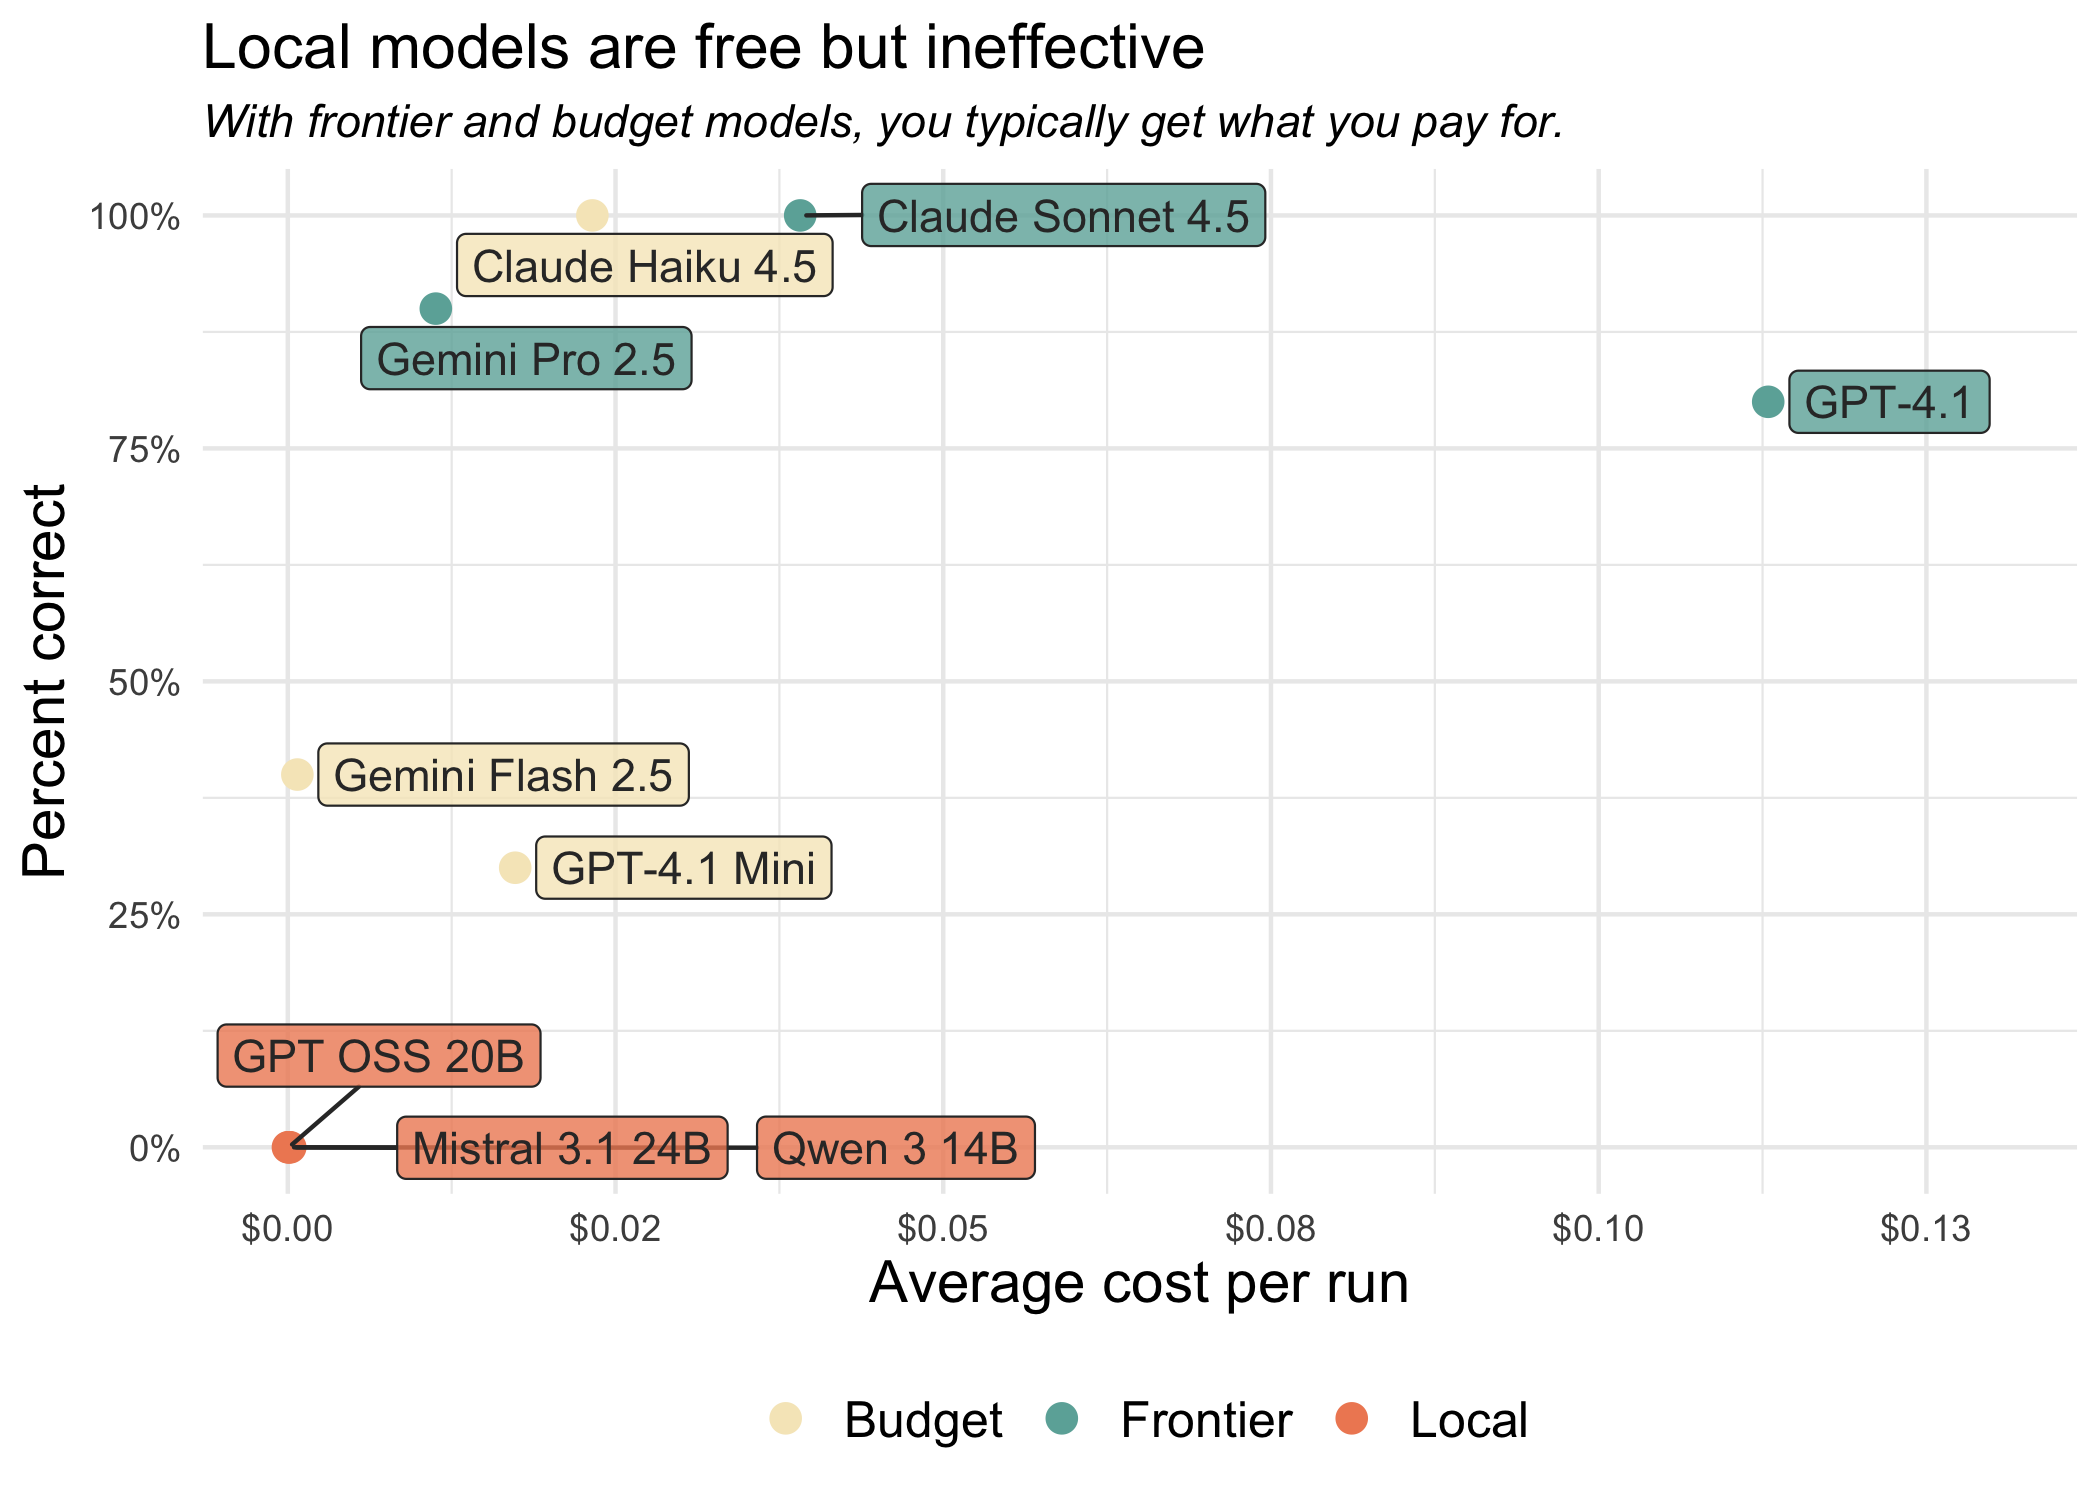
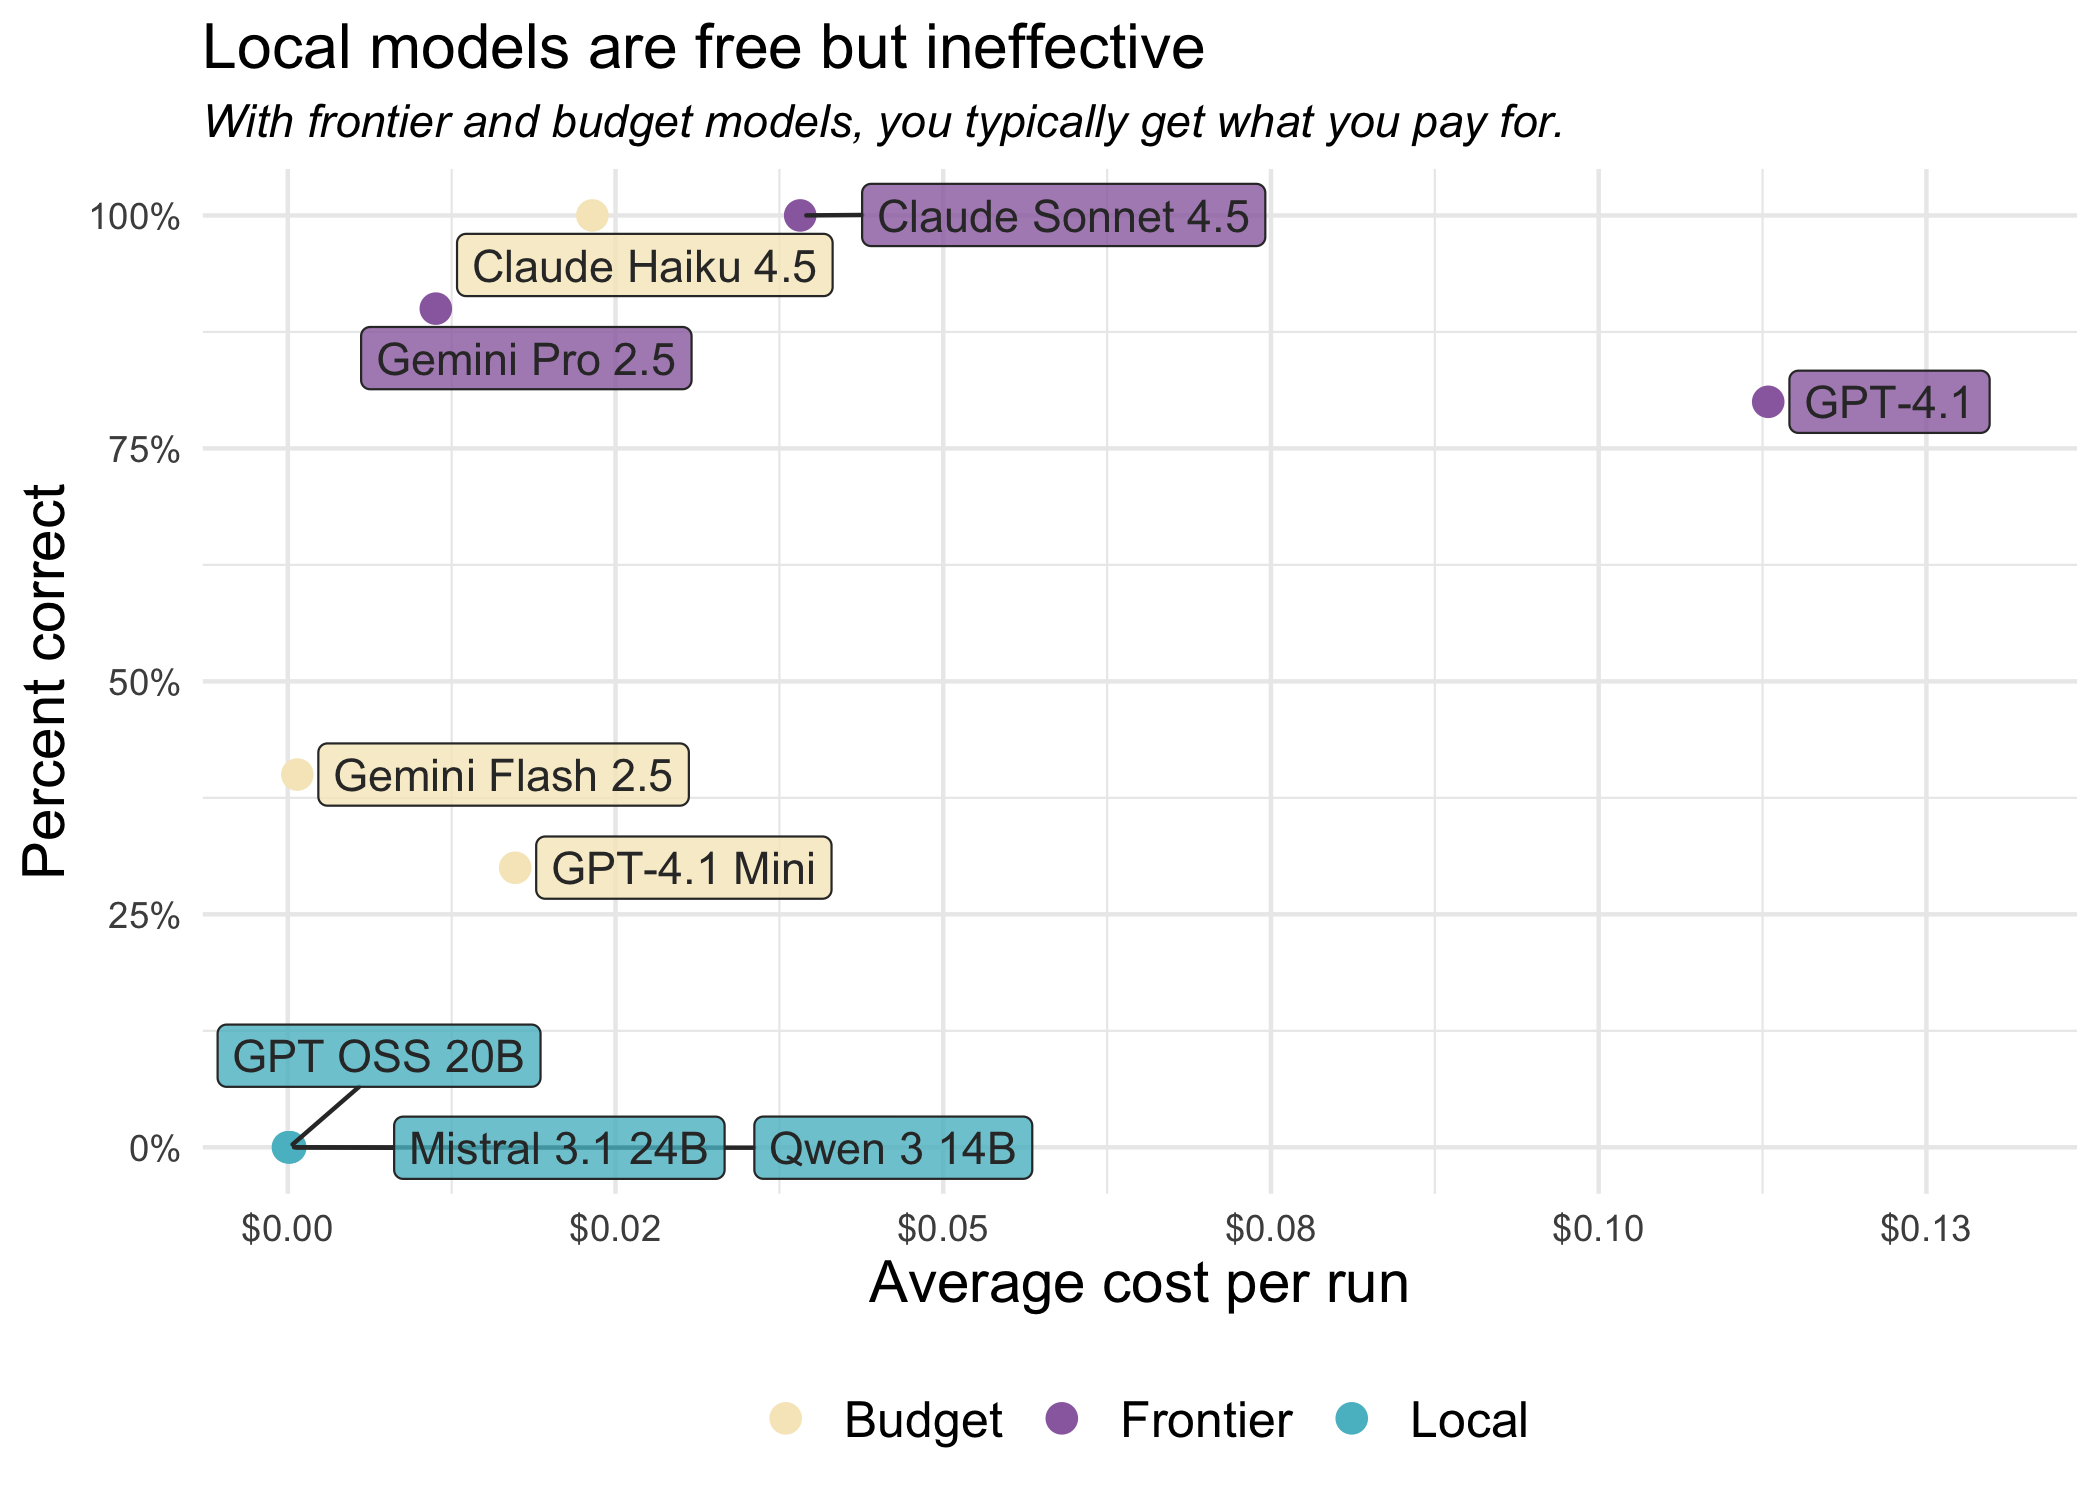
a few minor edits

diff --git a/index.md b/index.md
@@ -15,10 +15,10 @@ are not capable enough to be useful in these tools right now.**
 
 We understand why local models are appealing. They address two major
 concerns with using LLMs: cost and privacy. Coding agents that use paid,
-remote models can easily cost \$100 per week. And if you work with
-protected or confidential data, running a model entirely on your laptop
-sounds ideal. With a non-local model, you need to [trust your model
-provider](https://posit.co/blog/trust-llm-tools/) with your data.
+remotely hosted models can easily cost \$100 per week. And if you work
+with protected or confidential data, running a model entirely on your
+laptop sounds ideal. With a non-local model, you need to [trust your
+model provider](https://posit.co/blog/trust-llm-tools/) with your data.
 
 The problem is that the current local models simply aren’t capable
 enough yet. In this post, we’ll show results from an evaluation that
